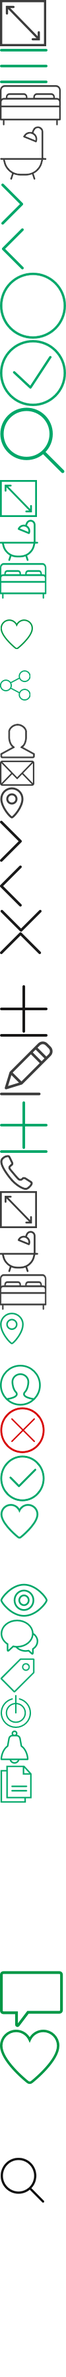
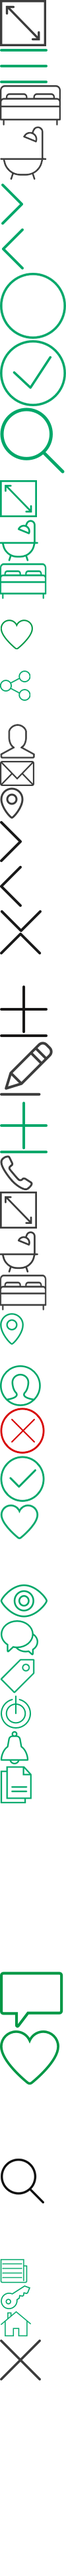
update html

Changed region(s): [[0.0, 0.0, 1.0, 0.9333], [0.66, 0.6533, 0.69, 0.6844]]

diff --git a/apps/metvuong/frontend/web/themes/mv_mobile1/resources/css/style.css b/apps/metvuong/frontend/web/themes/mv_mobile1/resources/css/style.css
@@ -27,7 +27,7 @@ a:active, a:visited, a:link {
 }
 .icon {
     background: url(../images/icon.png) no-repeat top left;
-    background-size: 33px 1200px;
+    background-size: 33px 1300px;
     display: inline-block;
 }
 header {
@@ -1983,7 +1983,7 @@ label {
 .icon-share-td {
     display: inline-block;
     background-position: 0 -507px;
-    background-size: 50px 1800px;
+    background-size: 50px 1950px;
     width: 24px;
     height: 24px;
     position: relative;
@@ -1992,7 +1992,7 @@ label {
 .save-item {
     display: inline-block;
     background-position: 0 -469px;
-    background-size: 50px 1800px;
+    background-size: 50px 1950px;
     width: 25px;
     height: 23px;
 }
@@ -3341,7 +3341,7 @@ input[type=text]:focus {
 }
 .icon-map-loca {
     background-position: 0px -994px;
-    background-size: 50px 1800px;
+    background-size: 50px 1950px;
     width: 18px;
     height: 24px;
 }
@@ -3375,7 +3375,7 @@ input[type=text]:focus {
 .icon-per-small {
     background-position: 0 -689px;
     width: 21px;
-    height: 20px;
+    height: 21px;
 }
 .icon-heart-small {
     background-position: 0 -759px;
@@ -3500,19 +3500,19 @@ input[type=text]:focus {
 }
 .icon-alert {
     background-position: 0 -1310px;
-    background-size: 50px 1800px;
+    background-size: 50px 1950px;
     width: 22px;
     height: 26px;
 }
 .icon-listings {
     background-position: 0 -1337px;
-    background-size: 50px 1800px;
+    background-size: 50px 1950px;
     width: 24px;
     height: 29px;
 }
 .icon-chat {
     background-position: 0 -1226px;
-    background-size: 50px 1800px;
+    background-size: 50px 1950px;
     width: 30px;
     height: 26px;
 }
@@ -3523,13 +3523,13 @@ input[type=text]:focus {
 }
 .icon-tags {
     background-position: 0 -1255px;
-    background-size: 50px 1800px;
+    background-size: 50px 1950px;
     width: 26px;
     height: 27px;
 }
 .icon-logout {
     background-position: 0 -1283px;
-    background-size: 50px 1800px;
+    background-size: 50px 1950px;
     width: 24px;
     height: 26px;
 }
@@ -3869,6 +3869,12 @@ input[type=text]:focus {
     padding-top: 45px;
     font-size: 14px;
 }
+.no-title {
+    padding: 0;
+}
+.center-popup {
+    background: rgba(0, 0, 0, 0.4);
+}
 .title-popup {
     color: #00a769;
     text-align: center;
@@ -3884,8 +3890,28 @@ input[type=text]:focus {
     height: 45px;
     line-height: 45px;
 }
+.center-popup .wrap-popup {
+    position: absolute;
+    z-index: 1001;
+    bottom: 50%;
+    right: 50%;
+    width: 320px;
+    background-color: white;
+    box-shadow: 0 -2px 2px rgba(0,0,0,0.2);
+    border-radius: 2px;
+    -webkit-box-orient: vertical;
+    -webkit-box-flex: 0;
+    -webkit-flex: 0;
+    -ms-flex: 0;
+    flex: 0;
+    -webkit-flex-wrap: wrap;
+    -ms-flex-wrap: wrap;
+    flex-wrap: wrap;
+    -webkit-transform: translate3d(50%,50%,0);
+}
 .inner-popup {
-    padding: 15px 15px 50px;
+    padding: 25px 15px 30px;
+    position: relative;
 }
 .frm-email {
     border-bottom: solid 0.5px #969696;
@@ -3929,11 +3955,15 @@ input[type=text]:focus {
 .inner-popup .btn-common {
     text-transform: uppercase;
     border: solid 1.5px #00a769;
+    padding: 8px 30px;
 }
 .inner-popup .btn-cancel {
     background: none;
     color: #3c3c3c;
     margin-right: 10px;
+}
+.btn-close.btn-cancel {
+    margin-right: 0;
 }
 .title-popup .txt-cancel {
     padding: 0 15px;
@@ -3945,4 +3975,47 @@ input[type=text]:focus {
 }
 .hide-popup {
     display: none;
+}
+#nang-cap .inner-popup {
+    text-align: center;
+}
+#nang-cap .inner-popup p {
+    margin-bottom: 15px;
+    line-height: 100%;
+    font-size: 16px;
+}
+#nang-cap .inner-popup .alert-num-date {
+    font-weight: 600;
+}
+#nang-cap .alert-num-date span {
+    color: #00a769;
+}
+.avatar-user-inter {
+    margin-right: 15px;
+}
+.name-user-inter {
+    font-weight: 600;
+    font-size: 16px;
+    margin-bottom: 10px;
+}
+#popup-user-inter .btn-common {
+    display: block;
+    line-height: 100%;
+    float: left;
+    width: 45%;
+}
+#popup-user-inter .btn-chat {
+    margin-right: 15px;
+    padding: 3px 30px 2px;
+}
+.btn-close {
+    position: absolute;
+    top: 0;
+    right: 0;
+    padding: 8px 10px;
+}
+.icon-close {
+    background-position: 0px -1180px;
+    width: 21px;
+    height: 22px;
 }

diff --git a/apps/metvuong/frontend/web/themes/mv_mobile1/resources/js/common.js b/apps/metvuong/frontend/web/themes/mv_mobile1/resources/js/common.js
@@ -750,7 +750,8 @@ $.fn.popupMobi = function (options) {
         var defaults = {
             styleShow: "full", // "full" or "center"
             duration: 200,
-            btnClickShow: ""
+            btnClickShow: "",
+            closeBtn: ""
         },
         sc = {},
         el = $(this);
@@ -758,8 +759,6 @@ $.fn.popupMobi = function (options) {
         if ( el.length == 0 || !checkMobile() ) return el;
 
         sc.settings = $.extend({}, defaults, options);
-
-        $('body').append(el);
 
         $(sc.settings.btnClickShow).on('click', function (e) {
             e.preventDefault();
@@ -770,6 +769,16 @@ $.fn.popupMobi = function (options) {
             e.preventDefault();
             hide(el);
         });
+
+        $('body').append(el);
+
+        if ( el.find('.title-popup').length == 0 ) {
+            el.addClass('no-title');
+        }
+
+        if ( sc.settings.styleShow == "center" ) {
+            el.addClass('center-popup');
+        }
 
         if ( $(sc.settings.btnClickShow).length == 0 || sc.settings.btnClickShow == "" ) {
             showPopup(el);

diff --git a/apps/metvuong/frontend/web/themes/mv_mobile1/views/dashboard/ad/index.php b/apps/metvuong/frontend/web/themes/mv_mobile1/views/dashboard/ad/index.php
@@ -56,16 +56,47 @@ use yii\helpers\Url;
 	</div>
 </div>
 
-<div id="nang-cap" class="popup-custom hide">
+<div id="nang-cap" class="popup-common hide-popup">
 	<div class="wrap-popup">
-		
+		<div class="inner-popup">
+			<a href="#" class="btn-close btn-cancel"><span class="icon icon-close"></span></a>
+			<p class="alert-num-date">Tin đăng còn <span>0 ngày</span></p>
+			<p>Nâng cấp tin đăng thêm 30 ngày?  </p>
+			<div class="text-center">
+				<a href="#" class="btn-common btn-cancel">Từ chối</a>
+				<a href="#" class="btn-common">Đồng ý</a>
+			</div>
+		</div>
+	</div>
+</div>
+
+<div id="popup-user-inter" class="popup-common hide-popup">
+	<div class="wrap-popup">
+		<div class="inner-popup">
+			<a href="#" class="btn-close"><span class="icon icon-close"></span></a>
+			<div class="pull-left circle avatar-user-inter">
+				<img src="/images/default-avatar.jpg" alt="" width="50" height="50">
+			</div>
+			<div class="overflow-all">
+				<p class="name-user-inter">James Bond</p>
+				<a href="#" class="btn-common btn-chat"><span class="icon icon-chat-1"></span></a>
+				<a href="#" class="btn-common btn-email"><span class="icon icon-email-1"></span></a>		
+			</div>
+		</div>
 	</div>
 </div>
 
 <script>
 	$(document).ready(function () {
 		$('#nang-cap').popupMobi({
-			btnClickShow: '.btn-nang-cap'
+			btnClickShow: '.btn-nang-cap',
+			styleShow: 'center',
+			closeBtn: '#nang-cap .btn-cancel'
+		});
+
+		$('#popup-user-inter').popupMobi({
+			styleShow: 'center',
+			closeBtn: '#popup-user-inter .btn-close'
 		});
 	});
 </script>
